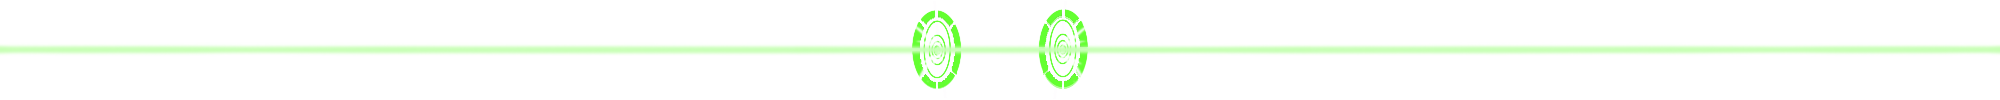
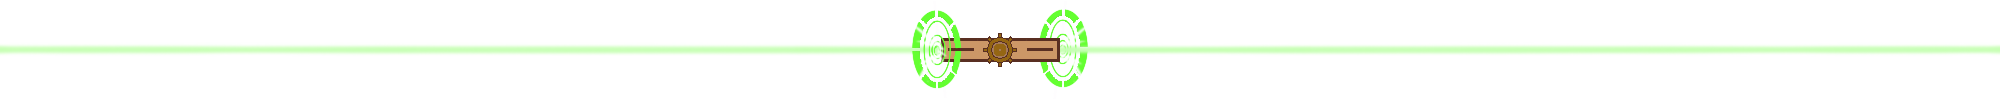
Updated visuals
Effect: A more harmonic, amusing appearence to in level elements.

Summary: Updated enemy, tower and attack images to give them a consistant art style - pixelated fantasy. Also changed a few constants to fit the size of the new images.

Changed region(s): [[0.434, 0.36, 0.558, 0.63], [0.527, 0.84, 0.558, 0.9], [0.527, 0.18, 0.558, 0.21]]

diff --git a/pygame major project 2D tower defence by wallace/config.py b/pygame major project 2D tower defence by wallace/config.py
@@ -11,9 +11,13 @@ Initialise = {
 
     # convert to make it load more quickly, alpha allows image transparency
     "enemy_snakeIMG" : pygame.transform.scale_by(pygame.image.load('pygame major project 2D tower defence by wallace/assets/enemy_snakeIMG.png').convert_alpha(), 1.3),
+    "enemy_ant_gIMG" : pygame.transform.scale_by(pygame.image.load('pygame major project 2D tower defence by wallace/assets/enemy_ant_gIMG.png').convert_alpha(), 1.3),
+    "enemy_ant_sIMG" : pygame.transform.scale_by(pygame.image.load('pygame major project 2D tower defence by wallace/assets/enemy_ant_sIMG.png').convert_alpha(), 1.3),
+
     "attack_linearIMG" : pygame.transform.scale_by(pygame.image.load('pygame major project 2D tower defence by wallace/assets/attack_linearIMG.png').convert_alpha(), 0.7),
     "attack_parabolaIMG" : pygame.transform.scale_by(pygame.image.load('pygame major project 2D tower defence by wallace/assets/attack_parabolaIMG.png').convert_alpha(), 1),
-    "towerIMG" : pygame.image.load('pygame major project 2D tower defence by wallace/assets/tower.png').convert_alpha(),
+    "tower_linearIMG" : pygame.transform.scale_by(pygame.image.load('pygame major project 2D tower defence by wallace/assets/tower_linearIMG.png').convert_alpha(), 0.8),
+    "tower_parabolaIMG" : pygame.transform.scale_by(pygame.image.load('pygame major project 2D tower defence by wallace/assets/tower_parabolaIMG.png').convert_alpha(), 0.8),
     "queryIMG" : pygame.image.load('pygame major project 2D tower defence by wallace/assets/query.png').convert_alpha(),
     
 
@@ -58,8 +62,16 @@ Level_preset = {
                 "health": 100,
                 # distance in pixels
                 "distance_per_second": 100,
-                "image": Initialise["enemy_snakeIMG"],
-                "spawn_time": {1, 2,3,4,5,6,7,8,9,20}, # (tuple([x/100 for x in range(1000)])),
+                "image": Initialise["enemy_ant_gIMG"],
+                "spawn_time": {1, 2,3,4,5}, # (tuple([x/100 for x in range(1000)])),
+                "bounty": 15
+            },
+            "ant_s": {
+                "health": 100,
+                # distance in pixels
+                "distance_per_second": 100,
+                "image": Initialise["enemy_ant_sIMG"],
+                "spawn_time": {7,8,9,20}, # (tuple([x/100 for x in range(1000)])),
                 "bounty": 15
             }
         },
@@ -99,7 +111,7 @@ Tower_preset = {
         "description" : "penetrative!",
         "details" : ["This tower shoots a straight line nothing can stop, dealing damage to enemies on", "its path. This is also how linear graphs looks like - also a straight line, extending to", "infinity. The equation would be y = Ax or Ay = x"],
         "price": 50,
-        "image" : Initialise["towerIMG"],
+        "image" : Initialise["tower_linearIMG"],
         "range" : 200,
     },
     "Parabola tower": {
@@ -107,7 +119,7 @@ Tower_preset = {
         "description" : "Knocks back!",
         "details" : ["This tower shoots a growing curve knocking back enemies. This is also how parabola", " graphs looks like - also a curve curving at a linear rate. The equation would be y = Ax^2", " or Ay^2 = x, where ^2 means to the power of two. Be aware that you will only learn", " about parabolas facing verticly and horizontally in high school."],
         "price" : 100,
-        "image" : Initialise["towerIMG"],
+        "image" : Initialise["tower_parabolaIMG"],
         "range" : 230,
     }
 }
